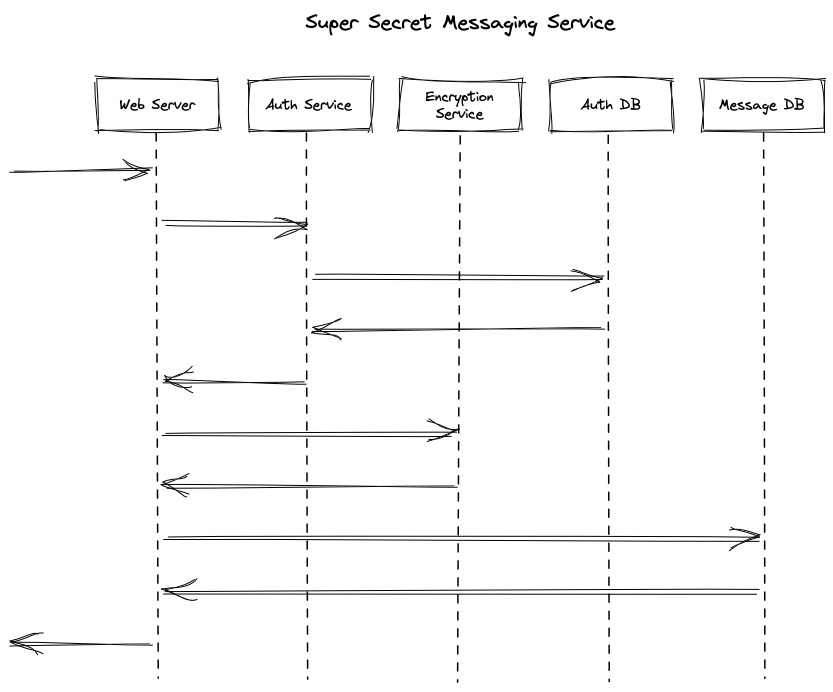
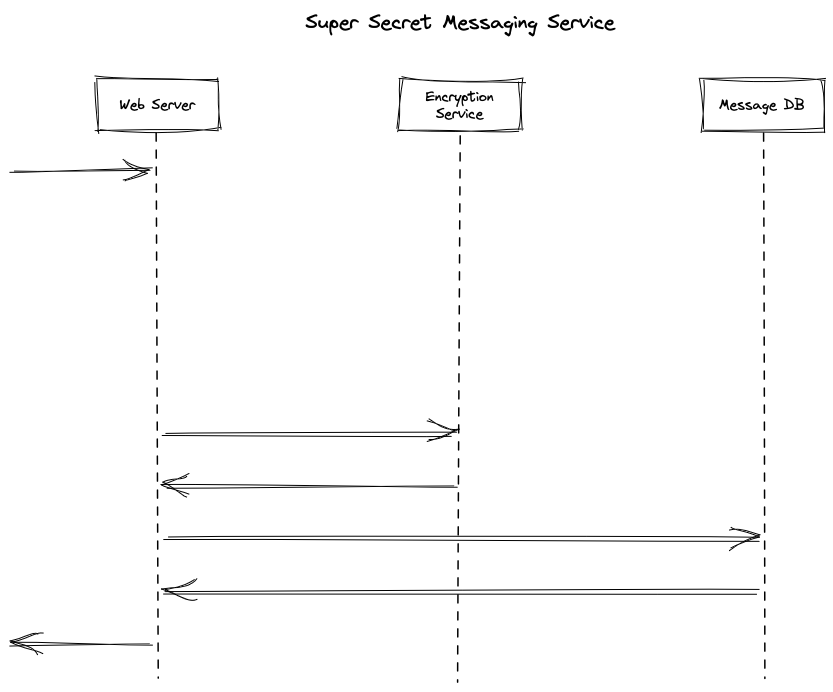
Update design

diff --git a/topics/integration-testing/example/index.html b/topics/integration-testing/example/index.html
@@ -191,7 +191,7 @@
     </div>
 </div>
 <h1 id="secret-messages-example">Secret Messages Example</h1>
-<p>We’re going to end-to-end test a system for sending encrypted messages between users. A user creates a message, chooses a password for that message, and submits them through a web interface, along with a username and password. The system verifies that the user is allowed to create messages, encrypts the message using the given password, stores the encrypted message in a database, then displays a link where anyone with the password can read the message.</p>
+<p>We’re going to end-to-end test a system for sending encrypted messages between users. A user creates a message, chooses a password for that message, and submits them through a web interface. The system encrypts the message using the given password, stores the encrypted message in a database, then displays a link where anyone with the password can read the message.</p>
 <p><strong>Important note:</strong> this isn’t a <em>good</em> system, it’s just an example. This is actually a pretty bad way to send secret messages, not least of all because the password and the unencrypted message have to leave the user’s computer. It would be better to encrypt the message on the user’s device and send only the encrypted version to the server. But that wouldn’t be as much fun to test!</p>
 <p>See the sequence diagram below for an illustration of how a message is created. This is the process that students will test as a homework assignment.</p>
 <figure>

diff --git a/topics/integration-testing/example/README.md b/topics/integration-testing/example/README.md
@@ -2,10 +2,9 @@
 
 We're going to end-to-end test a system for sending encrypted messages between
 users. A user creates a message, chooses a password for that message, and
-submits them through a web interface, along with a username and password. The
-system verifies that the user is allowed to create messages, encrypts the
-message using the given password, stores the encrypted message in a database,
-then displays a link where anyone with the password can read the message.
+submits them through a web interface. The system encrypts the message using the
+given password, stores the encrypted message in a database, then displays a link
+where anyone with the password can read the message.
 
 **Important note:** this isn't a *good* system, it's just an example. This is
 actually a pretty bad way to send secret messages, not least of all because the
